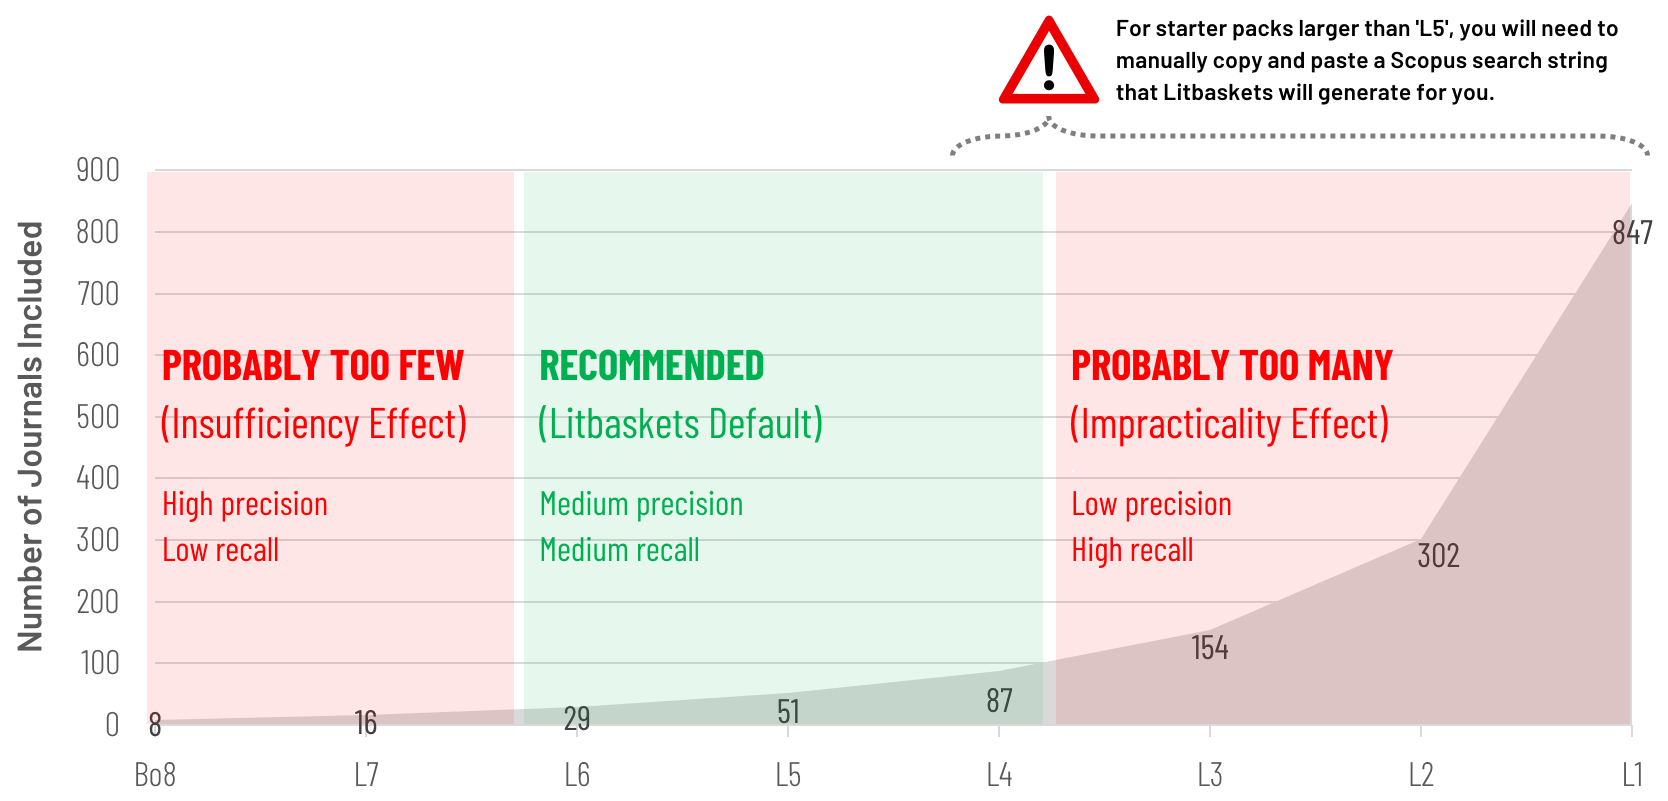
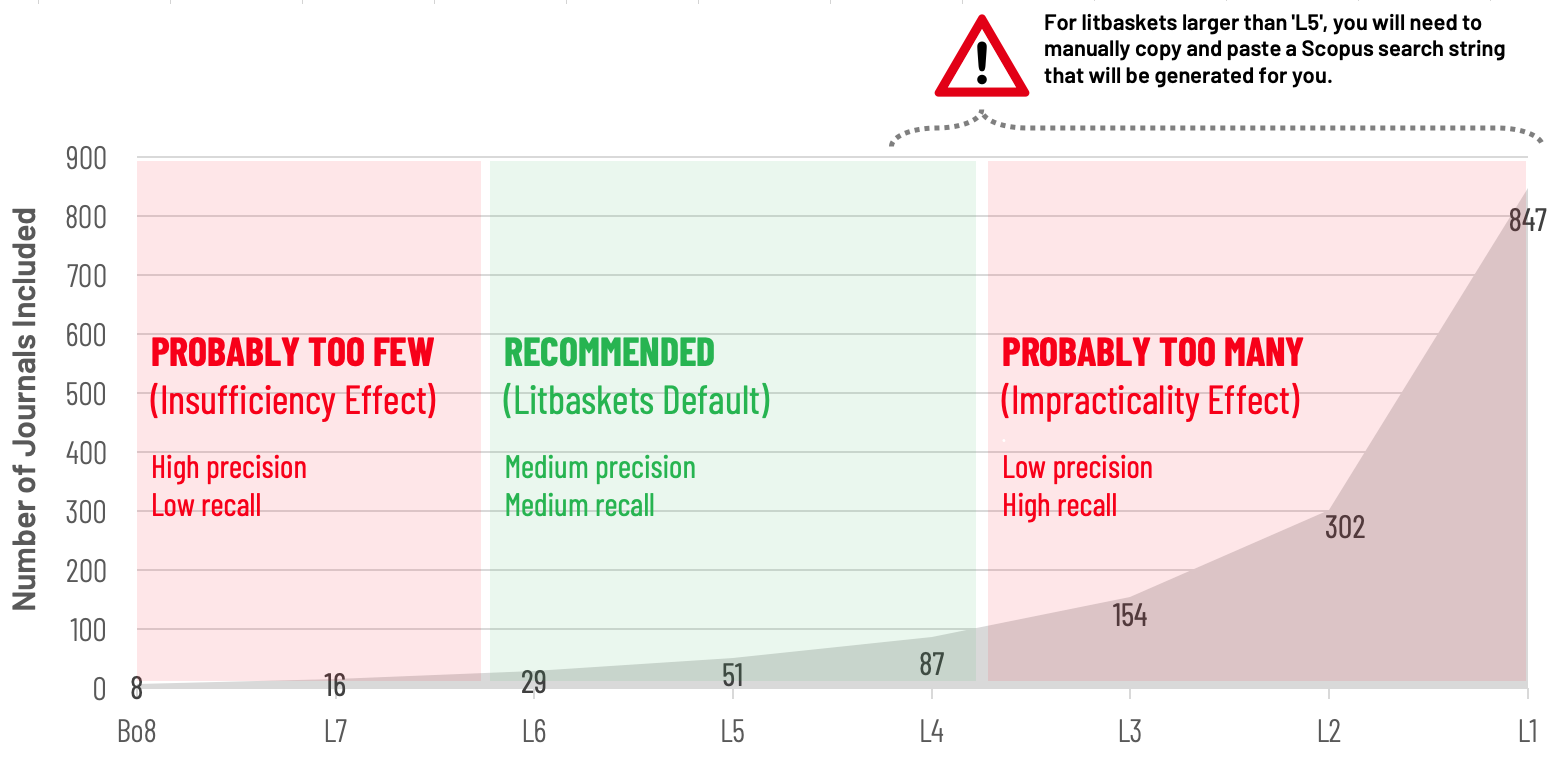
[feat] litbasketsRevision=50, updated graph and link

diff --git a/www/fragments/10-header-and-open-body.php b/www/fragments/10-header-and-open-body.php
@@ -2,7 +2,7 @@
 	<meta charset="UTF-8">
 	<link rel="stylesheet" type="text/css" href="<?php echo $server ?>/node_modules/patternfly/dist/css/patternfly.min.css">
 	<link rel="stylesheet" type="text/css" href="<?php echo $server ?>/node_modules/patternfly/dist/css/patternfly-additions.min.css">
-	<link rel="stylesheet" type="text/css" href="<?php echo $server ?>/extras/styles.css?litbasketsRevision=49" />
+	<link rel="stylesheet" type="text/css" href="<?php echo $server ?>/extras/styles.css?litbasketsRevision=50" />
 	
 	<script src="<?php echo $server ?>/node_modules/jquery/dist/jquery.min.js"></script>
 	<script src="<?php echo $server ?>/node_modules/bootstrap/dist/js/bootstrap.min.js"></script>
@@ -12,16 +12,16 @@
 	<script src="<?php echo $server ?>/node_modules/patternfly-bootstrap-combobox/js/bootstrap-combobox.js"></script>
 	<script src="<?php echo $server ?>/node_modules/underscore/underscore-min.js"></script>
 	<script src="<?php echo $server ?>/node_modules/clipboard/dist/clipboard.min.js"></script>
-	<script src="<?php echo $server ?>/extras/sidebar-tab-switcher.js?litbasketsRevision=49"></script>
-	<script src="<?php echo $server ?>/extras/api.js?litbasketsRevision=49"></script>
-	<script src="<?php echo $server ?>/extras/index.model.js?litbasketsRevision=49"></script>
-	<script src="<?php echo $server ?>/extras/index.externalLogic.js?litbasketsRevision=49"></script>
-	<script src="<?php echo $server ?>/extras/index.controller.initial.js?litbasketsRevision=49"></script>
-	<script src="<?php echo $server ?>/extras/index.controller.search.js?litbasketsRevision=49"></script>
-	<script src="<?php echo $server ?>/extras/index.controller.sources.topbar.js?litbasketsRevision=49"></script>
-	<script src="<?php echo $server ?>/extras/index.controller.sources.js?litbasketsRevision=49"></script>
-	<script src="<?php echo $server ?>/extras/index.controller.filters.js?litbasketsRevision=49"></script>
-	<script src="<?php echo $server ?>/extras/index.controller.js?litbasketsRevision=49"></script>
+	<script src="<?php echo $server ?>/extras/sidebar-tab-switcher.js?litbasketsRevision=50"></script>
+	<script src="<?php echo $server ?>/extras/api.js?litbasketsRevision=50"></script>
+	<script src="<?php echo $server ?>/extras/index.model.js?litbasketsRevision=50"></script>
+	<script src="<?php echo $server ?>/extras/index.externalLogic.js?litbasketsRevision=50"></script>
+	<script src="<?php echo $server ?>/extras/index.controller.initial.js?litbasketsRevision=50"></script>
+	<script src="<?php echo $server ?>/extras/index.controller.search.js?litbasketsRevision=50"></script>
+	<script src="<?php echo $server ?>/extras/index.controller.sources.topbar.js?litbasketsRevision=50"></script>
+	<script src="<?php echo $server ?>/extras/index.controller.sources.js?litbasketsRevision=50"></script>
+	<script src="<?php echo $server ?>/extras/index.controller.filters.js?litbasketsRevision=50"></script>
+	<script src="<?php echo $server ?>/extras/index.controller.js?litbasketsRevision=50"></script>
 
 	
 	<title>Litbaskets</title>

diff --git a/www/fragments/40-litbaskets-search.php b/www/fragments/40-litbaskets-search.php
@@ -57,6 +57,11 @@
 		<br />
 		<p>
 			<strong>Litbaskets is realised through Scopus, you will need to have access to Scopus to use the search.</strong>
+			If you want to know more about how Litbaskets works or if you want to refer to Litbaskets in your
+			research, please have a look at our paper:
+			<em>
+			<a href="https://www.researchgate.net/publication/336868520_wwwlitbasketsio_an_IT_Artifact_Supporting_Exploratory_Literature_Searches_for_Information_Systems_Research">
+			www.litbaskets.io, an IT Artifact Supporting Exploratory Literature Searches for Information Systems Research</a></em>.
 		</p>
 	</div>
 </div>

diff --git a/www/fragments/44-litbaskets-initial.php b/www/fragments/44-litbaskets-initial.php
@@ -6,7 +6,7 @@
 	</p>
 
 	<div style="text-align: center; margin-bottom: 4rem;">
-		<img src="images/graph.png" style="width: 100%; padding-left: 3.3rem; padding-right: 8rem;" /> 
+		<img src="images/graph.png?litbasketsRevision=50" style="width: 100%; padding-left: 3.3rem; padding-right: 8rem;" /> 
 
 		<div style="margin: 0 auto; padding-left: 10rem; padding-right: 10rem; padding-top: 3rem; padding-bottom: 3rem;">
 			<input id="myslider" type="text"

diff --git a/www/index.php b/www/index.php
@@ -1,8 +1,8 @@
 <?php
 	// $server = "https://litbaskets.b-cdn.net";
-	// $server = "https://localhost/dev/litbaskets/www";
+	$server = "https://localhost/dev/litbaskets/www";
 	// $server = "https://www-beta.litbaskets.io";
-	$server = "https://www.litbaskets.io";
+	// $server = "https://www.litbaskets.io";
 
 	include("fragments/00-preheader.php");
 	include("fragments/10-header-and-open-body.php");
